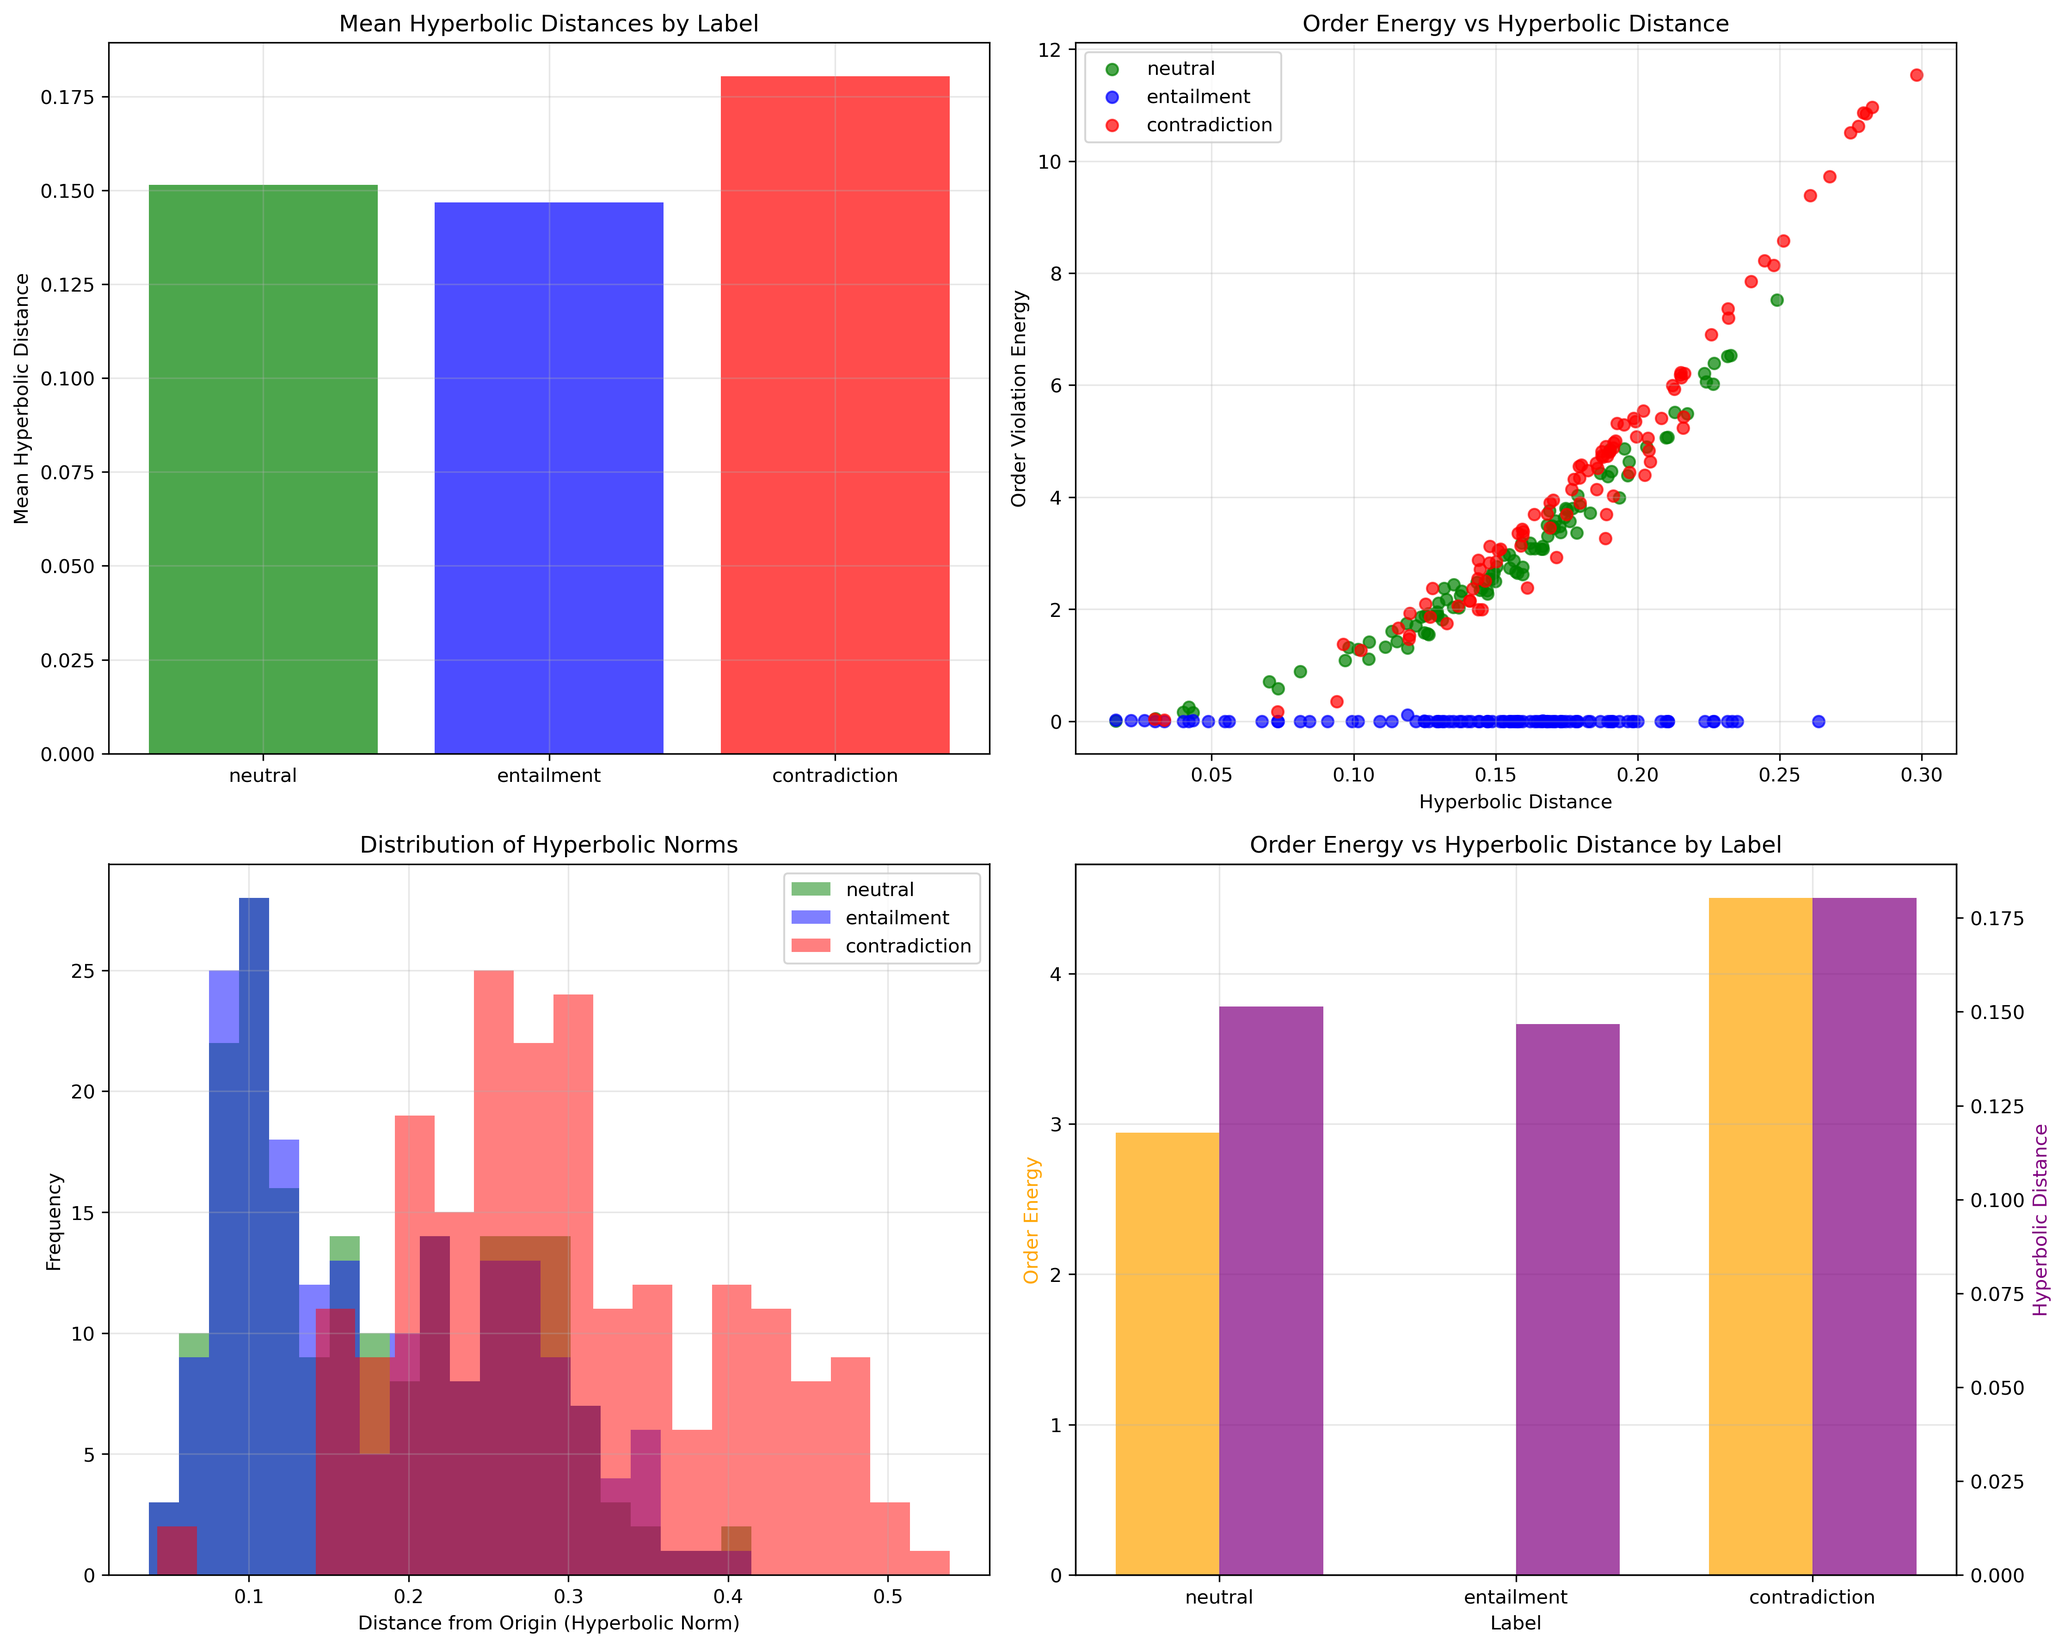
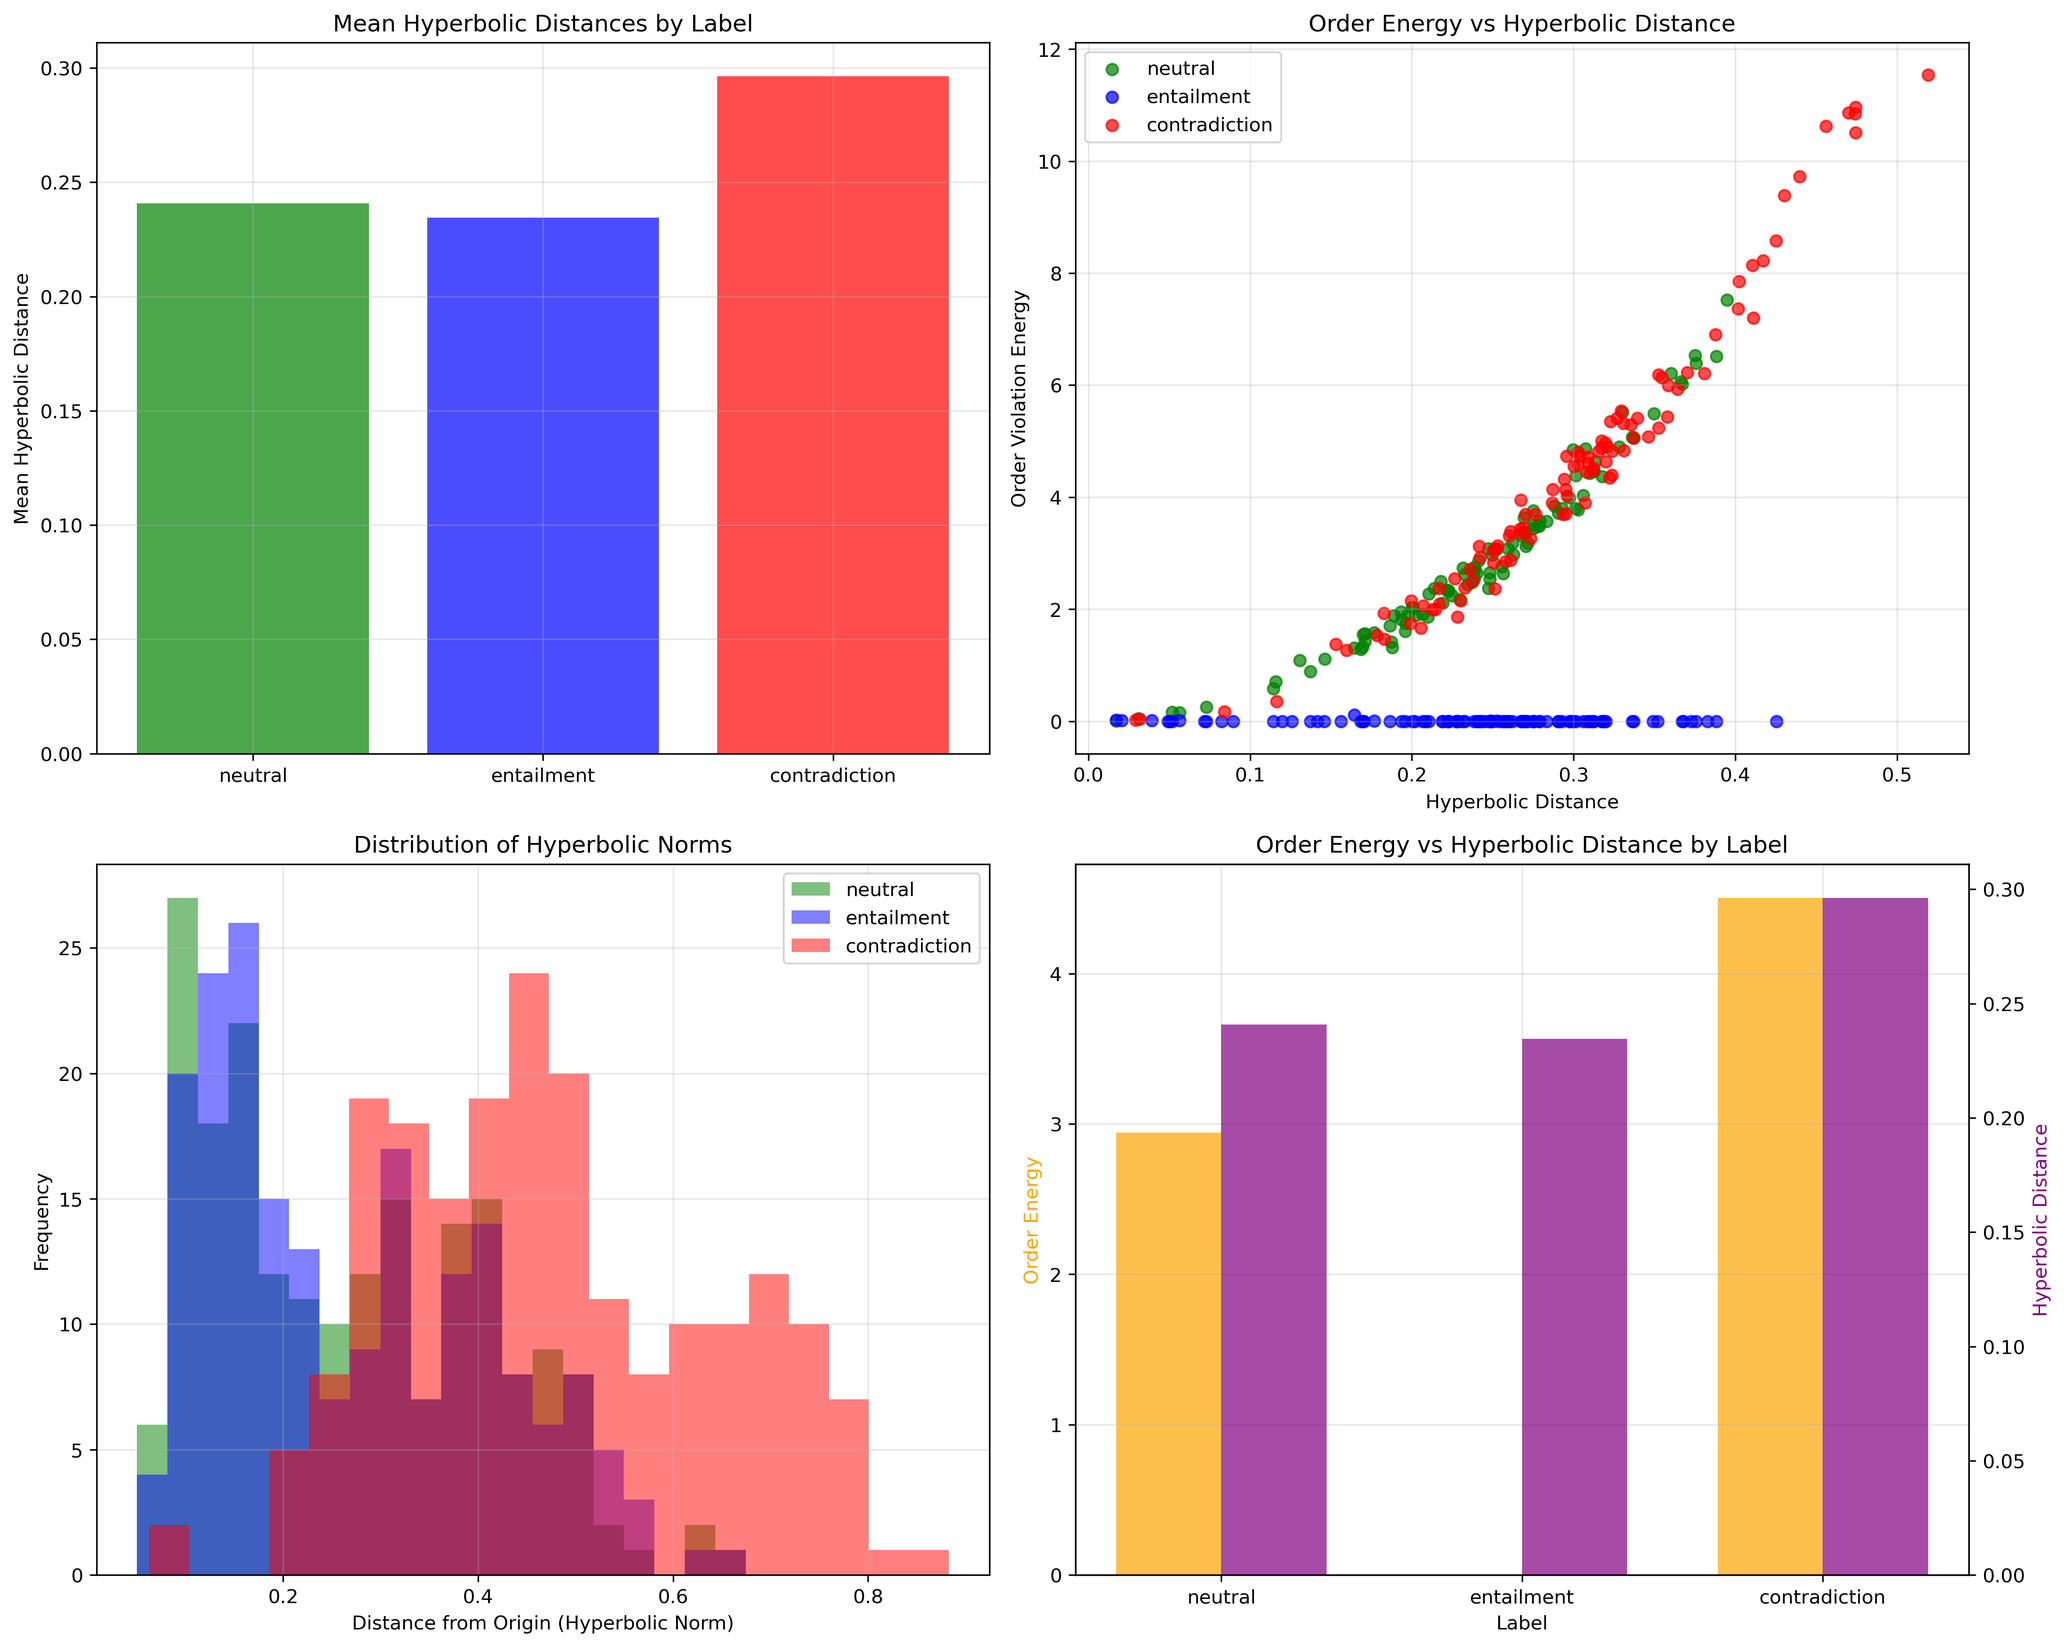
Entailment cones working on toy small dataset

diff --git a/src/entailment_cones.py b/src/entailment_cones.py
@@ -1,0 +1,315 @@
+"""
+Implementation of Hyperbolic Entailment Cones from the Hyperbolic Projection of our Order Embeddings (in hyperbolic_projection.py)
+following the methodology described in Ganea et al. (2018) "Hyperbolic Entailment Cones for Learning Hierarchical Embeddings"
+"""
+
+import torch
+import torch.nn as nn
+import geoopt
+import numpy as np
+from typing import Dict, Tuple, Optional
+import matplotlib.pyplot as plt
+from pathlib import Path
+import os
+from sympy.codegen.ast import RuntimeError_
+from hyperbolic_projection import HyperbolicOrderEmbeddingPipeline, safe_tensor_to_float
+from order_embeddings import OrderEmbeddingModel, EntailmentDataset
+from text_processing import TextToEmbedding
+
+class HyperbolicEntailmentCones:
+    """
+    Implementation of hyperbolic entailment cones following Ganea et al.
+    This class creates entailment cones in hyperbolic space, and computes cone violation energies
+    """
+    def __init__(self, K: float=0.1, epsilon: float=0.1):
+        """
+        Initialisation
+        Args:
+            K: Cone aperture parameter (0.1 from paper)
+            epsilon: Exclusion radius around origin (0.1 from paper)
+        """
+        self.K = K
+        self.epsilon = epsilon
+        self.ball = geoopt.PoincareBall()
+
+    def cone_aperture(self, premise_embedding: torch.Tensor) -> torch.Tensor:
+        """Compute cone aperture using Ganea et al. equation 26
+         ψ(x) = arcsin(K(1 - ||x||²)/||x||)
+         Args:
+             premise_embedding: Point in Poincaré ball [batch_size, dim]
+        Returns:
+            Cone aperture angles [batch_size]
+        Note: We use Euclidean norm (not hyperbolic norm) because:
+        - Points in Poincaré ball are represented as Euclidean vectors with norm < 1
+        - The formula uses Euclidean distance from origin to determine hierarchy level
+        - This is consistent with Ganea et al.'s original implementation
+        """
+
+        norm = torch.norm(premise_embedding, dim=-1, keepdim=True)
+
+        #Ensure not too close to origin (outside epsilon ball)
+        norm = torch.clamp(norm, min=self.epsilon)
+
+        #Cone aperture formula
+        numerator = self.K * (1 - norm**2)
+        aperture_arg = numerator/norm
+
+        #clamp to valid arcsin domain [-1, 1]
+        aperture_arg = torch.clamp(aperture_arg, min=-1.0, max=1.0)
+        aperture = torch.arcsin(aperture_arg)
+
+        return aperture.squeeze(-1)
+
+    def compute_xi_angle(self, premise: torch.Tensor, hypothesis: torch.Tensor) -> torch.Tensor:
+        """
+        Compute angle Ξ(x,y) from Ganea et al. Equation 28:
+        This is the angle between the half-lines (xy and (0x
+        Args:
+            premise: Premise embeddings in Poincaré ball [batch_size, dim]
+            hypothesis: Hypothesis embeddings in Poincaré ball [batch_size, dim]
+        Returns:
+            Angles Ξ(premise, hypothesis) [batch_size]
+        """
+
+        #Compute required norms and dot products
+        premise_norm = torch.norm(premise, dim=-1) #||x||
+        hypothesis_norm = torch.norm(hypothesis, dim=-1) #||y||
+        diff_norm = torch.norm(premise - hypothesis, dim=-1) #||x-y||
+        dot_product = torch.sum(premise * hypothesis, dim=-1) # ⟨x,y⟩
+
+        # Numerator: ⟨x,y⟩(1 + ||x||²) - ||x||²(1 + ||y||²)
+        numerator = (dot_product * (1 + premise_norm**2) - premise_norm**2 * (1 + hypothesis_norm**2))
+
+        # Denominator: ||x|| · ||x-y|| · √(1 + ||x||²||y||² - 2⟨x,y⟩)
+        sqrt_term = torch.sqrt(1+premise_norm**2 * hypothesis_norm**2 - 2 * dot_product)
+        denominator = premise_norm * diff_norm * sqrt_term
+
+        # Avoid division by zero
+        denominator = torch.clamp(denominator, min=1e-8)
+
+        #Compute cosine of angle
+        cos_inverse_xi = numerator / denominator
+        inverse_xi = torch.arccos(cos_inverse_xi)
+        return np.pi - inverse_xi
+
+    def cone_membership_energy(self, premise: torch.Tensor, hypothesis: torch.Tensor) -> torch.Tensor:
+        """ Compute cone violation energy using Ganea et al. equation 33, adapted from Vendrov et al.
+                E(u,v) = max(0, Ξ(u,v) - ψ(u))
+                If E ≈ 0: hypothesis is inside premise's cone (entailment)
+                If E > 0: hypothesis is outside premise's cone (no entailment)
+
+        Args:
+            premise: Premise embeddings [batch_size, dim]
+            hypothesis: Hypothesis embeddings [batch_size, dim]
+        Returns:
+            Cone violation energies [batch_size]
+        """
+        #Compute angle between premise and hypothesis
+        xi_angle = self.compute_xi_angle(premise, hypothesis)
+
+        #Compute cone aperture for premise
+        aperture = self.cone_aperture(premise)
+
+        #Cone violation energy: max(0, angle-aperture)
+        violation_energy = torch.relu(xi_angle - aperture)
+
+        return violation_energy
+
+    def create_entailment_cone(self, premise_embedding: torch.Tensor) -> Dict[str, torch.Tensor]:
+        """Create entailment cone structure for a premise embedding
+        Args:
+            premise_embedding: Single premise point in Poincaré ball
+        Returns:
+            Dictionary with cone properties:
+            - apex: cone apex (premise point)
+            - aperture: cone aperture angle
+            - axis: cone central axis direction
+        """
+        if premise_embedding.dim() == 1:
+            premise_embedding = premise_embedding.unsqueeze(0)
+
+        aperture = self.cone_aperture(premise_embedding)
+        norm = torch.norm(premise_embedding, dim=-1, keepdim=True)
+        norm = torch.clamp(norm, min=self.epsilon)
+
+        #Central axis = radial direction from origin through premise
+        axis = premise_embedding / norm
+
+        return {
+            'apex': premise_embedding.squeeze(0),
+            'aperture': aperture.squeeze(0),
+            'axis': axis.squeeze(0)
+        }
+
+
+class HyperbolicConeEmbeddingPipeline:
+    def __init__(self, model_path: str = "models/order_embeddings_small.pt",
+                 K: float=0.1, epsilon: float=0.1):
+        """
+        Initialize the complete pipeline
+        Args:
+            model_path: Path to trained order embeddings
+            K: cone aperture parameter
+            epsilon: exclusion radius around origin
+        """
+
+        self.model_path = model_path
+        self.hyperbolic_pipeline = None
+        self.cone_computer = HyperbolicEntailmentCones(K=K, epsilon=epsilon)
+
+        try:
+            self.hyperbolic_pipeline = HyperbolicOrderEmbeddingPipeline(model_path)
+            print("Successfuly loaded hyperbolic projection of order embeddings")
+        except Exception as e:
+            print(f"Could not load hyperbolic projection pipeline: {e}")
+
+    def compute_cone_energies(self, premise_bert: torch.Tensor, hypothesis_bert: torch.Tensor) -> Dict[str, torch.Tensor]:
+        """ Compute cone violation energies for premise-hypothesis pairs
+        Args:
+            premise_bert: BERT embeddings for premises [batch_size, 768]
+            hypothesis_bert: BERT embeddings for hypotheses [batch_size, 768]
+        Returns:
+            Dictionary with:
+            - cone_energies: Cone violation energies
+            - order_energies: Order violation energies (for comparison)
+            - hyperbolic_distances: Hyperbolic distances 9for comparison)
+            - premise_hyperbolic: Premise embeddings in hyperbolic space
+            - hypothesis_hyperbolic: Hypothesis embeddings in hyperbolic space
+            - premise norms: premise norms
+            - hypothesis norms: hypothesis norms
+        """
+        if self.hyperbolic_pipeline is None:
+            raise RuntimeError("Hyperbolic pipeline not loaded. Cannot compute cone energies")
+
+        results = self.hyperbolic_pipeline.compute_hyperbolic_energies(premise_bert, hypothesis_bert)
+
+        premises_hyp = results['premise_hyperbolic']
+        hypotheses_hyp = results['hypothesis_hyperbolic']
+
+        #Compute cone violation energies
+        cone_energies = self.cone_computer.cone_membership_energy(premises_hyp, hypotheses_hyp)
+
+        #Return results
+        return {
+            'cone_energies': cone_energies,
+            'order_energies': results['order_energies'],
+            'hyperbolic_distances': results['hyperbolic_distances'],
+            'premise_hyperbolic': premises_hyp,
+            'hypothesis_hyperbolic': hypotheses_hyp,
+            'premise_norms': results['premise_norms'],
+            'hypothesis_norms': results['hypothesis_norms']
+        }
+
+    def validate_cone_hierarchy(self, premise_bert: torch.Tensor, hypothesis_bert: torch.Tensor, labels: torch.Tensor) -> Dict[str, torch.Tensor]:
+        """
+        Validate that cone energies follow expected hierarchy
+        Args:
+            premise_bert: BERT embeddings for premises [batch_size, 768]
+            hypothesis_bert: BERT embeddings for hypotheses [batch_size, 768]
+            labels: Labels tensor where 0=entailment, 1=neutral, 2=contradiction
+
+        Returns:
+            Dictionary with mean energies for each category
+        """
+        results = {}
+        all_energies = self.compute_cone_energies(premise_bert, hypothesis_bert)
+
+        #Group by label
+        for label_idx, label_name in enumerate(['entailment', 'neutral', 'contradiction']):
+            mask = (labels == label_idx)
+            if mask.sum() > 0:
+                cone_energies_subset = all_energies['cone_energies'][mask]
+                order_energies_subset = all_energies['order_energies'][mask]
+                hyperbolic_distances_subset = all_energies['hyperbolic_distances'][mask]
+
+                results[f"{label_name}_cone_energy"] = safe_tensor_to_float(cone_energies_subset.mean())
+                results[f"{label_name}_order_energy"] = safe_tensor_to_float(order_energies_subset.mean())
+                results[f"{label_name}_hyperbolic_distance"] = safe_tensor_to_float(hyperbolic_distances_subset.mean())
+
+        return results
+
+def test_cone_implementation():
+    print("Testing hyperbolic cone implementation")
+    pipeline = HyperbolicConeEmbeddingPipeline()
+
+    processed_data_path = "data/processed/toy_embeddings_small.pt"
+    if not os.path.exists(processed_data_path):
+        return RuntimeError("Processed data not found! Error")
+
+    from torch.utils.data import DataLoader
+
+    processed_data = torch.load(processed_data_path)
+    dataset = EntailmentDataset(processed_data)
+    dataloader = DataLoader(dataset, batch_size=len(dataset), shuffle=False)
+
+    batch = next(iter(dataloader))
+    premise_embs = batch['premise_emb'].to(pipeline.hyperbolic_pipeline.device)
+    hypothesis_embs = batch['hypothesis_emb'].to(pipeline.hyperbolic_pipeline.device)
+    labels = batch['label']
+    label_strs = batch['label_str']
+
+    print(f"Testing on real dataset: {len(premise_embs)} examples")
+
+    # Compute cone energies
+    results = pipeline.compute_cone_energies(premise_embs, hypothesis_embs)
+
+    # Analyze by label
+    stats_by_label = {}
+    for i, label_str in enumerate(label_strs):
+        if label_str not in stats_by_label:
+            stats_by_label[label_str] = {
+                'cone_energies': [],
+                'order_energies': [],
+                'hyperbolic_distances': []
+            }
+
+        stats_by_label[label_str]['cone_energies'].append(safe_tensor_to_float(results['cone_energies'][i]))
+        stats_by_label[label_str]['order_energies'].append(safe_tensor_to_float(results['order_energies'][i]))
+        stats_by_label[label_str]['hyperbolic_distances'].append(safe_tensor_to_float(results['hyperbolic_distances'][i]))
+
+    print("Results:")
+    print("-" * 60)
+    for label, stats in stats_by_label.items():
+        print(f"\n{label.upper()}:")
+        print(f"  Cone Energy:          {np.mean(stats['cone_energies']):.4f} ± {np.std(stats['cone_energies']):.4f}")
+        print(f"  Order Energy:         {np.mean(stats['order_energies']):.4f} ± {np.std(stats['order_energies']):.4f}")
+        print(f"  Hyperbolic Distance:  {np.mean(stats['hyperbolic_distances']):.4f} ± {np.std(stats['hyperbolic_distances']):.4f}")
+
+    # Validate hierarchy
+    ent_cone = np.mean(stats_by_label.get('entailment', {}).get('cone_energies', [float('inf')]))
+    neu_cone = np.mean(stats_by_label.get('neutral', {}).get('cone_energies', [float('inf')]))
+    con_cone = np.mean(stats_by_label.get('contradiction', {}).get('cone_energies', [float('inf')]))
+
+    hierarchy_valid = ent_cone < neu_cone < con_cone
+    print(f"\nCone Energy Hierarchy: {'VALID' if hierarchy_valid else 'INVALID'}")
+    print(f"   {ent_cone:.4f} < {neu_cone:.4f} < {con_cone:.4f}")
+
+    return pipeline, results, stats_by_label
+
+
+if __name__ == "__main__":
+    # Run basic tests
+    test_results = test_cone_implementation()
+
+    # Try to test with real pipeline if available
+    try:
+        pipeline = HyperbolicConeEmbeddingPipeline()
+        print("\nSuccessfully created complete cone embedding pipeline!")
+    except Exception as e:
+        print(f"\nCould not create full pipeline: {e}")
+        print("Basic cone mathematics implementation is working correctly.")
+
+
+
+
+
+
+
+
+
+
+
+
+
+
+

diff --git a/src/hyperbolic_projection.py b/src/hyperbolic_projection.py
@@ -37,7 +37,7 @@ class HyperbolicProjector(nn.Module):
         )
 
         # Scaling factor to ensure point stay inside unit ball
-        self.scale_factor = 0.5 # Conservative scaling to avoid boundary issues
+        self.scale_factor = 0.7 # Conservative scaling to avoid boundary issues
 
         # Initialize weights
         self._init_weights()
